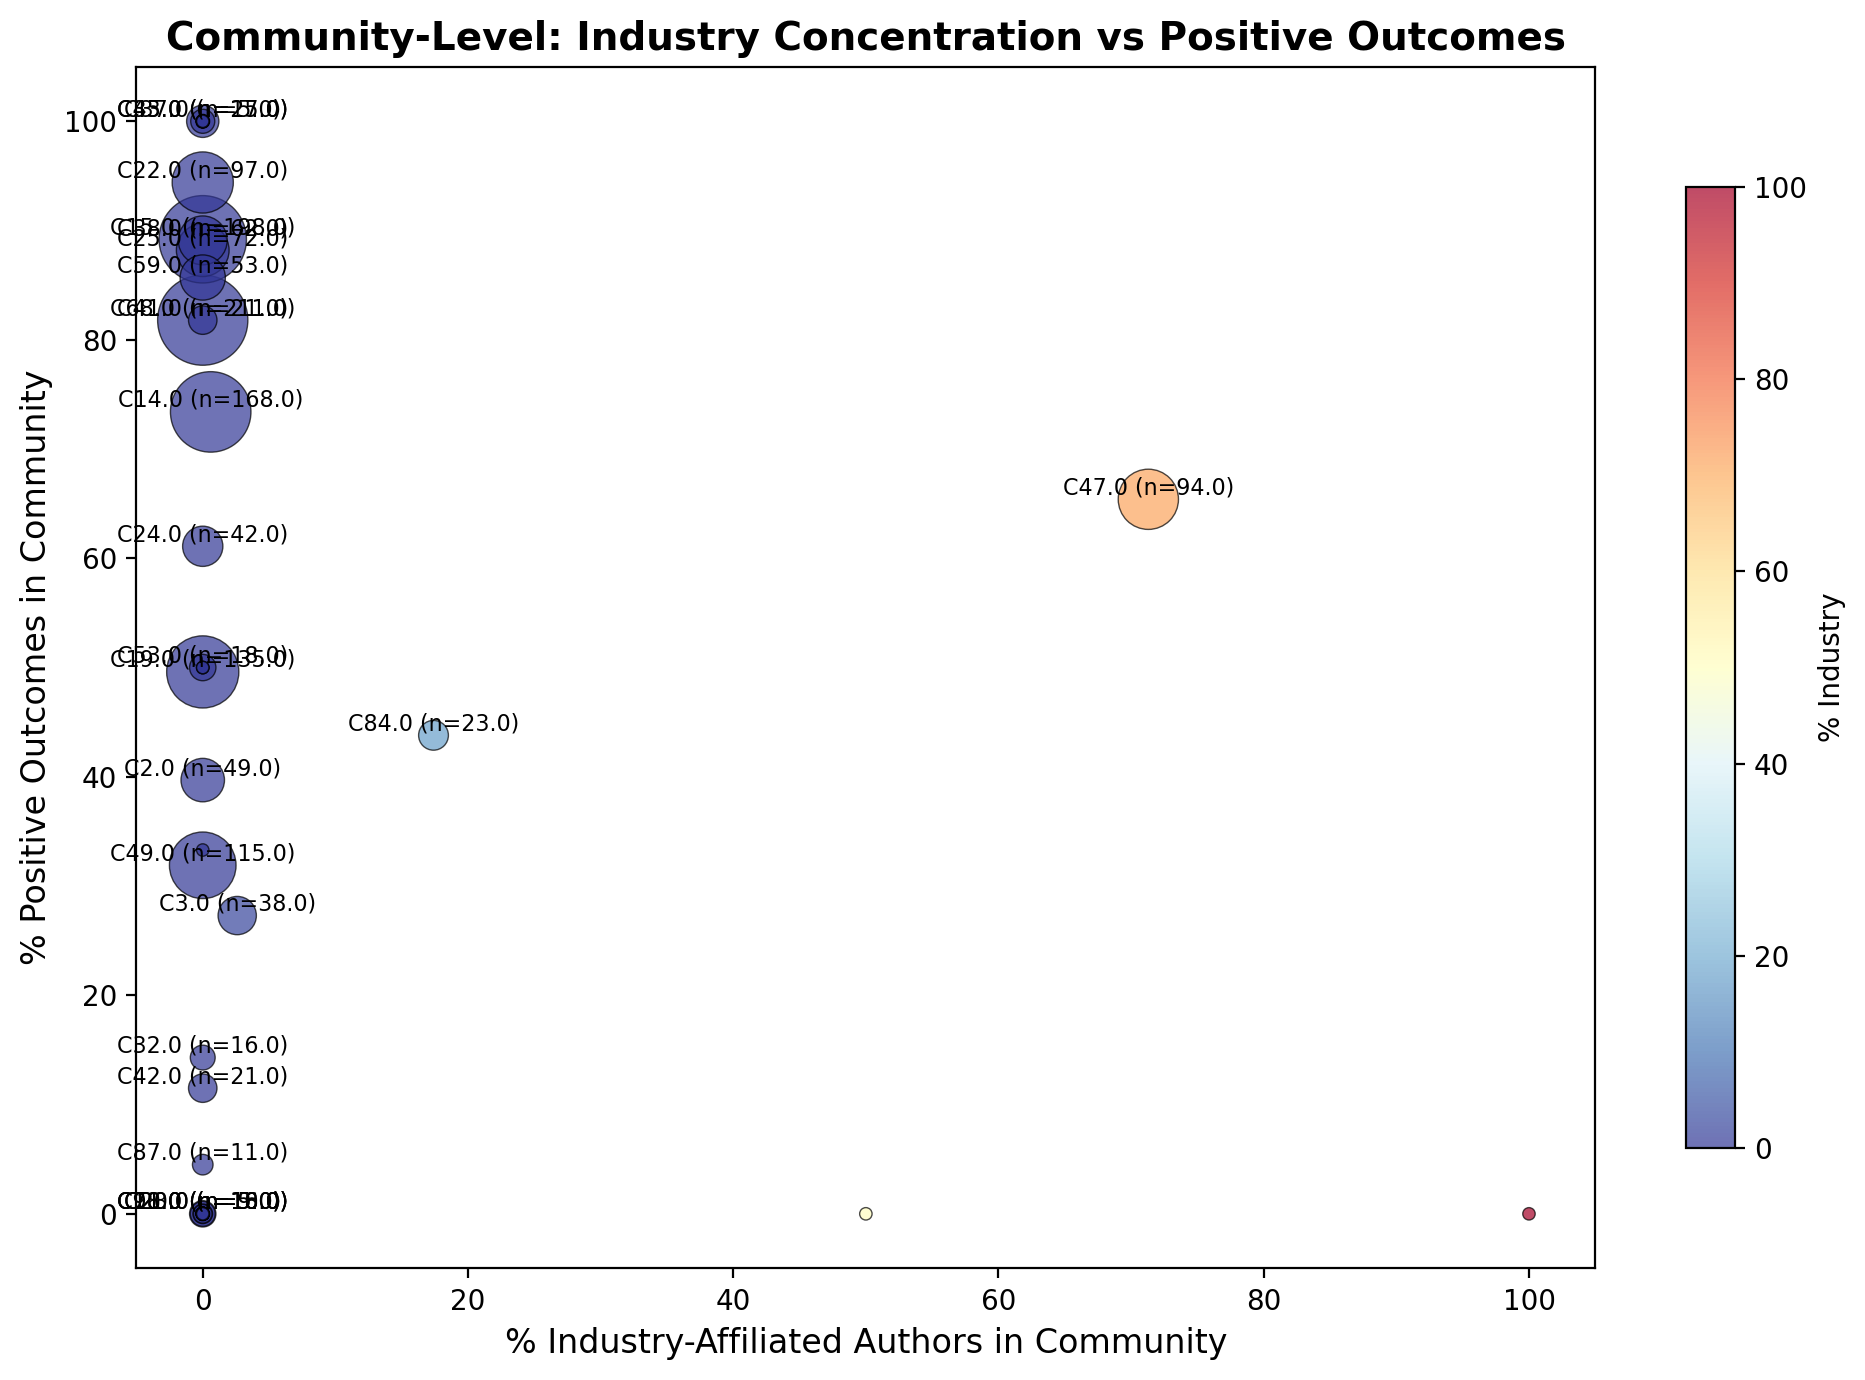
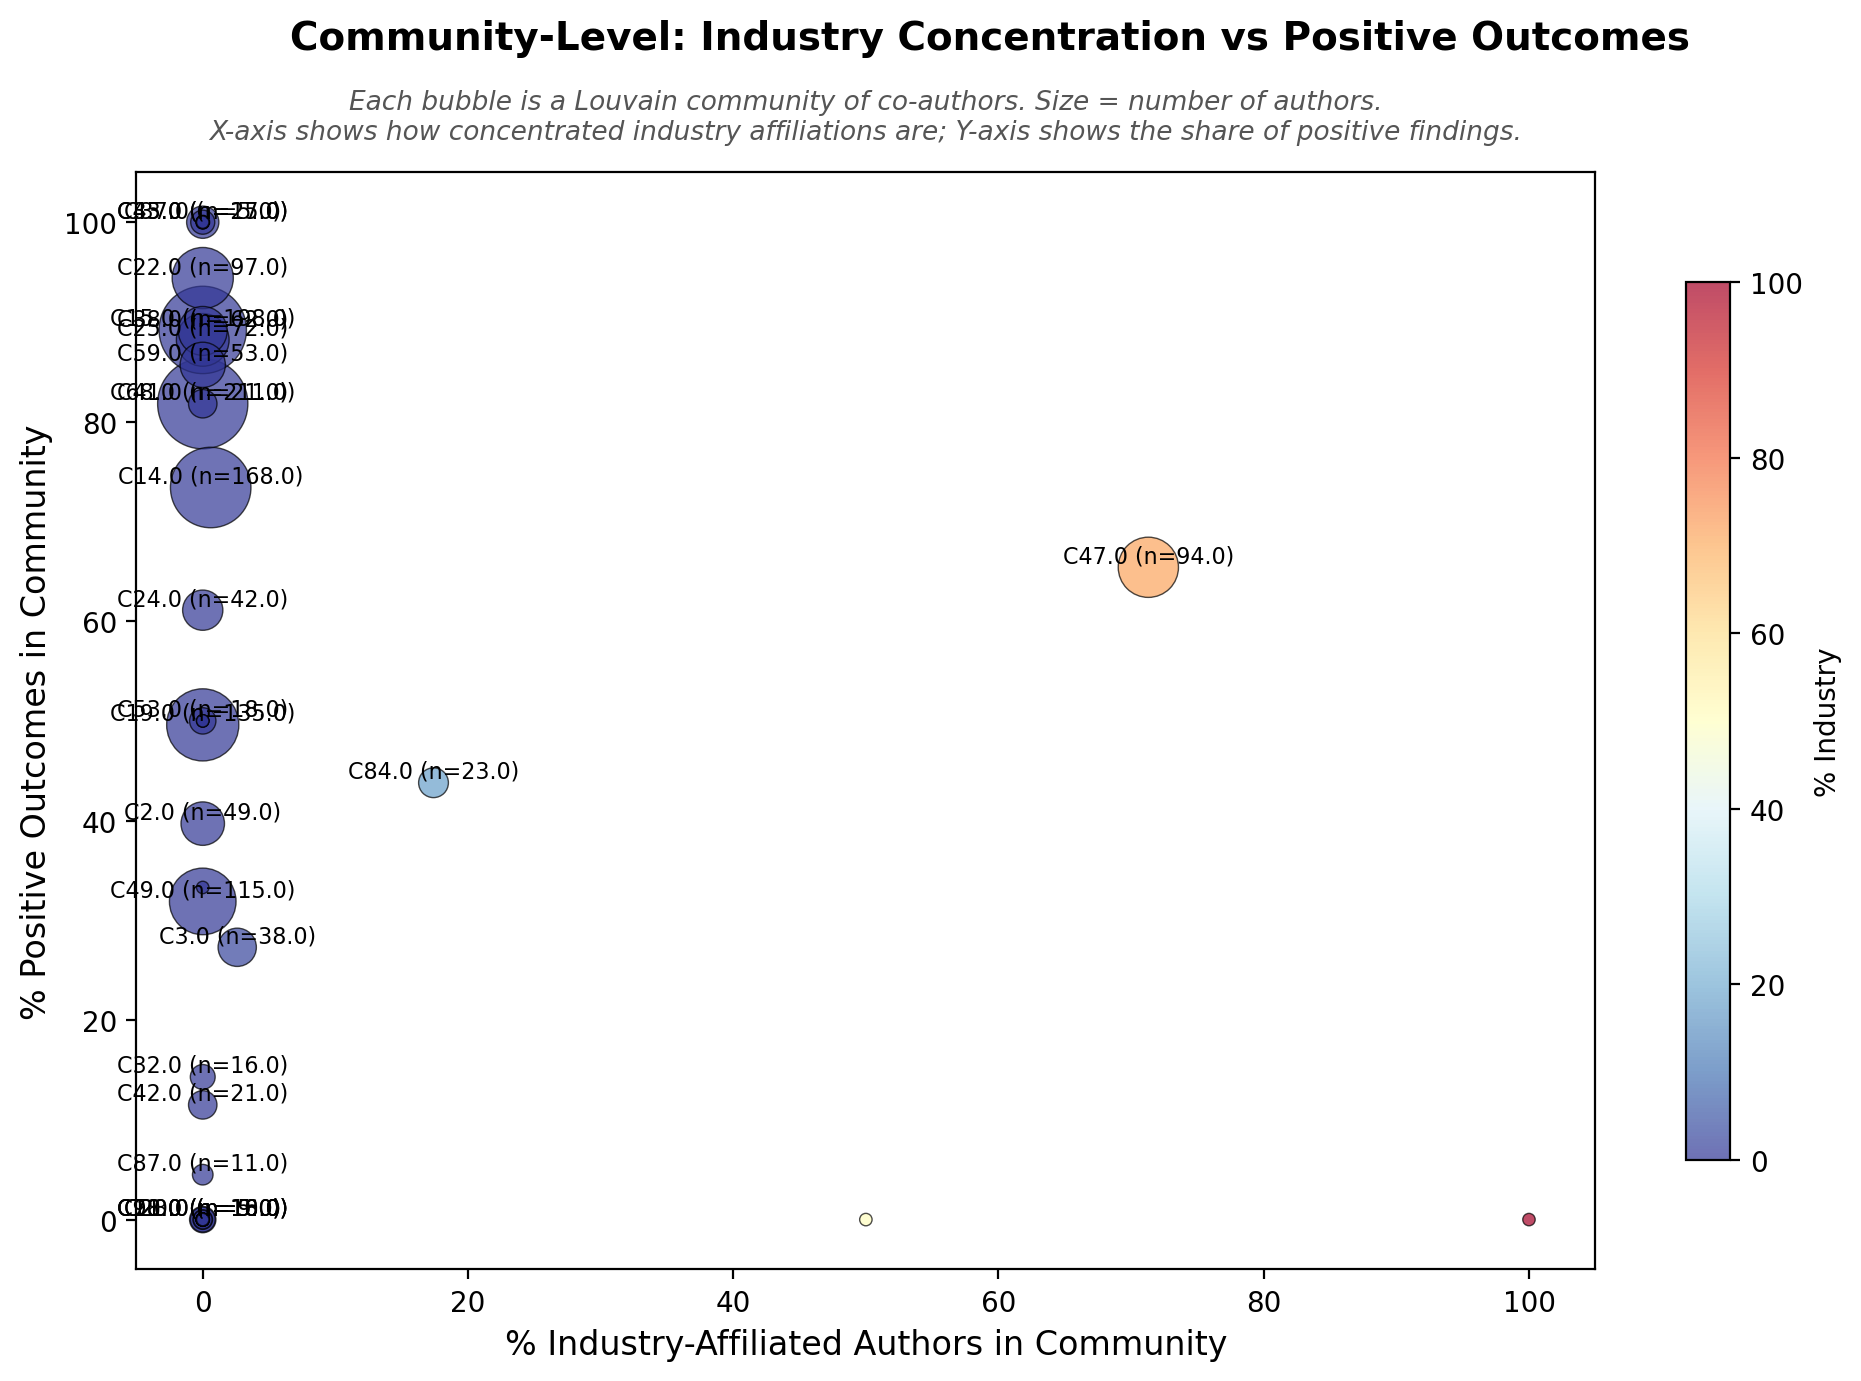
Add descriptive subtitle to community scatter plot

diff --git a/part2/viz/plots.py b/part2/viz/plots.py
@@ -189,7 +189,12 @@ def plot_community_scatter(comm_df: pd.DataFrame, output_dir: str):
 
     ax.set_xlabel("% Industry-Affiliated Authors in Community", fontsize=12)
     ax.set_ylabel("% Positive Outcomes in Community", fontsize=12)
-    ax.set_title("Community-Level: Industry Concentration vs Positive Outcomes", fontsize=14, fontweight="bold")
+    fig.suptitle("Community-Level: Industry Concentration vs Positive Outcomes", fontsize=14, fontweight="bold", y=0.98)
+    ax.set_title(
+        "Each bubble is a Louvain community of co-authors. Size = number of authors.\n"
+        "X-axis shows how concentrated industry affiliations are; Y-axis shows the share of positive findings.",
+        fontsize=9.5, color="#555", fontstyle="italic", pad=12,
+    )
 
     plt.colorbar(scatter, ax=ax, label="% Industry", shrink=0.8)
     plt.tight_layout()
